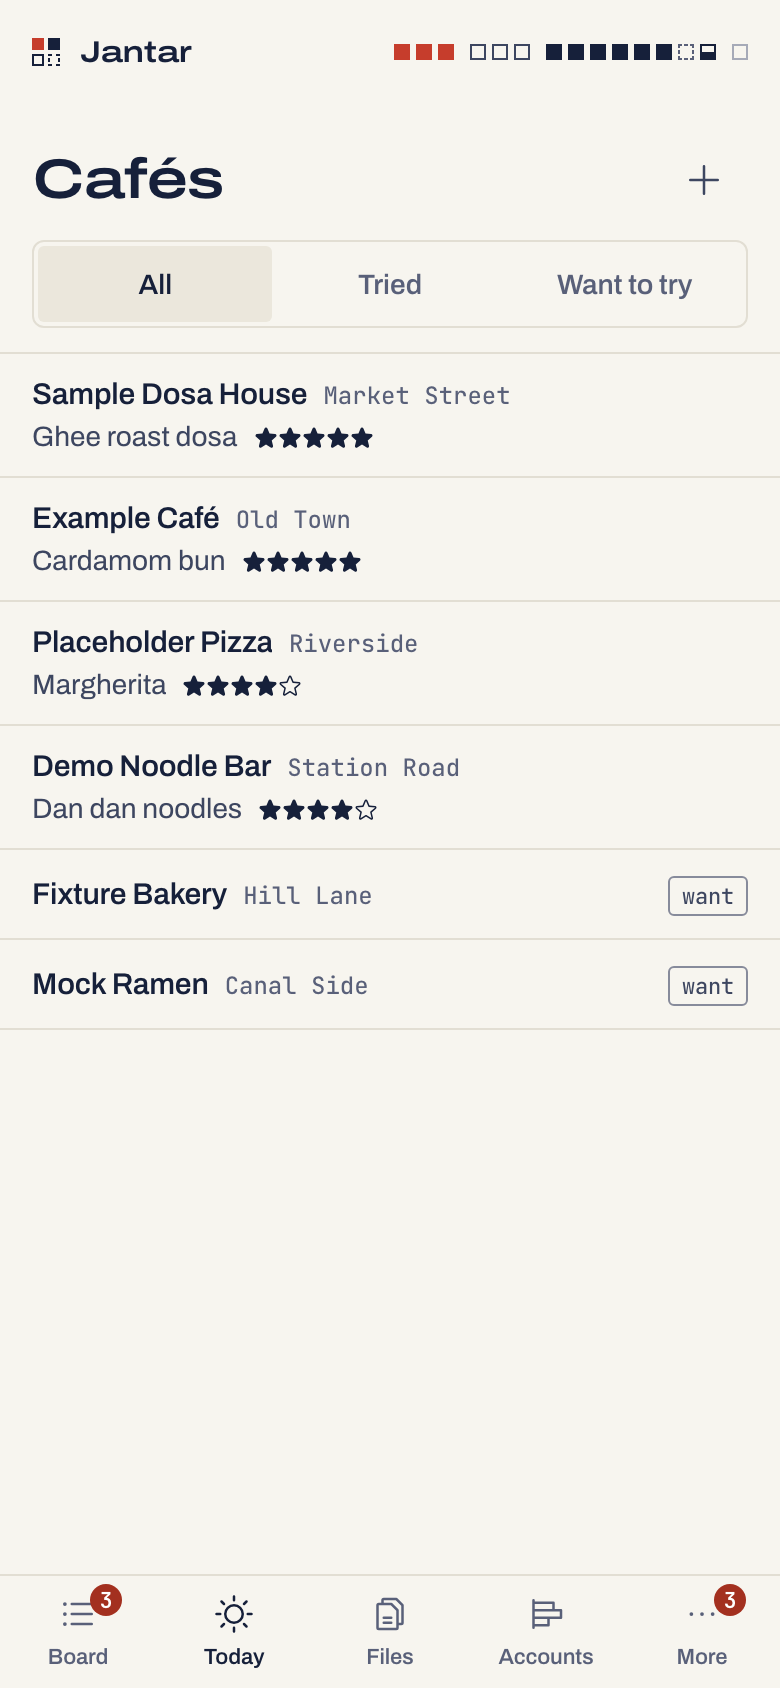
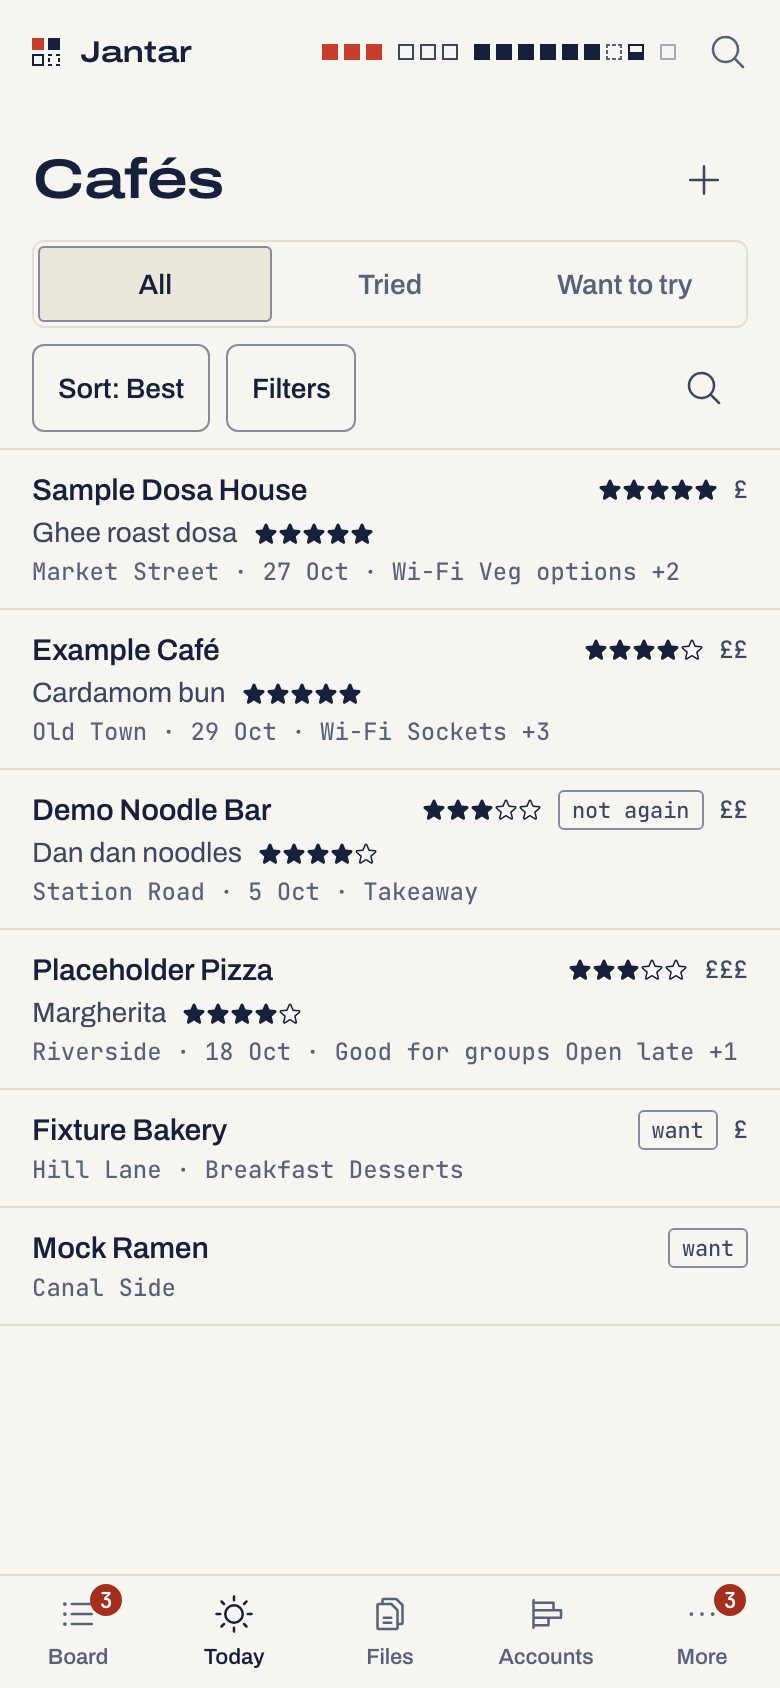
docs: cafés depth and Life's second schema change
- docs/life.md: the Cafés bullet (stars, six ratings, price, would go
  again, tags, dishes that wait to be rated, visits, sorts and filters,
  the café's screen, jantar place reads), the pictures (Cafés best rated
  first with filters; a café; the Filters sheet), the delete rule (a café
  with visits asks first), and Backup and restore with the daemon's own
  pre-upgrade copy.
- docs/upgrading.md: "0.10.0: Life's second schema change": the daemon
  keeps life-pre-0.10.0.db before migrating; going back to 0.9.0 is jantar
  life restore of it, losing the Life changes made since.
- SECURITY.md (Upgrading): the copy, 0600 in 0700 from the read-only check
  connection, and no migration without it.
- docs/LAYOUT.md: v0.10.0's files, sizes and tests.
- Screenshots: places re-shot; place (the first café's screen) and
  place-filters (the Filters sheet) are new, phone, light and dark, from
  the web fixture, whose list now sorts by the score (Demo Noodle Bar has
  its own three stars). Every picture looked at.
- perf-memory seeds five visits on each of its ten cafés (236 writes, under
  the 240 a minute); the gate holds at +24.0 MB.

diff --git a/test/integration/web-fixture-v04.ts b/test/integration/web-fixture-v04.ts
@@ -457,7 +457,7 @@ export function webFixtureV04(opts: WebFixtureV04Options = {}): WebFixtureV04 {
       { name: 'Margherita', rating: 4, price: 1100 },
       { name: 'Garlic knots', rating: 3 },
     ], { stars: 3, price: 3, again: 'maybe', tags: ['groups', 'late', 'outdoor'], visits: summary(703) }),
-    place(704, 'Demo Noodle Bar', 'Station Road', true, [{ name: 'Dan dan noodles', rating: 4, price: 950 }], { price: 2, again: 'no', tags: ['takeaway'], visits: summary(704) }),
+    place(704, 'Demo Noodle Bar', 'Station Road', true, [{ name: 'Dan dan noodles', rating: 4, price: 950 }], { stars: 3, price: 2, again: 'no', tags: ['takeaway'], visits: summary(704) }),
     place(705, 'Fixture Bakery', 'Hill Lane', false, [{ name: 'Cinnamon roll' }], { notes: 'Sourdough on Saturdays.', price: 1, tags: ['breakfast', 'desserts'] }),
     place(706, 'Mock Ramen', 'Canal Side', false, []),
   ];
@@ -719,7 +719,7 @@ export function webFixtureV04(opts: WebFixtureV04Options = {}): WebFixtureV04 {
     });
   };
 
-  /** v0.10: the list as the daemon filters it (the fixture's order is already best first; other sorts keep it). */
+  /** v0.10: the list as the daemon filters it, best first (the score, then the name); the other sorts are not kept here. */
   const placesList = (q: URLSearchParams) => {
     const f = q.get('filter');
     const segment = places.filter((p) => (f === 'tried' ? p.tried : f === 'want' ? !p.tried : true));
@@ -738,8 +738,9 @@ export function webFixtureV04(opts: WebFixtureV04Options = {}): WebFixtureV04 {
         (!text || [p.name, p.area ?? '', ...p.dishes.map((d) => d.name), ...p.tags, ...p.tags.map(placeTagLabel), p.notes ?? ''].join('\n').toLowerCase().includes(text)),
     );
     const count = <K extends string>(keys: K[]) => [...keys.reduce((m, k) => m.set(k, (m.get(k) ?? 0) + 1), new Map<K, number>())].sort((a, b) => b[1] - a[1]);
+    const score = (p: Place) => placeScore(p) ?? -1;
     return {
-      places: shown,
+      places: [...shown].sort((a, b) => score(b) - score(a) || a.name.localeCompare(b.name, 'en', { sensitivity: 'base' })),
       tags: count(segment.flatMap((p) => p.tags)).map(([tag, n]) => ({ tag, n })),
       areas: count(segment.flatMap((p) => (p.area ? [p.area] : []))).map(([area, n]) => ({ area, n })),
     };

diff --git a/docs/life.md b/docs/life.md
@@ -43,8 +43,16 @@ jantar life status
   and your weight with its change over 7 and 30 days. The calorie target
   (1,500 kcal until you change it) and the goal weight are set on the
   phone.
-- **Cafés** (`places`): your places and their best dishes, rated, tried or
-  want to try.
+- **Cafés** (`places`): your places, tried or want to try. A café has its
+  own stars, six optional ratings (food, coffee and drinks, vibe, service,
+  value, work), a price level (shown in your currency's symbol), would go
+  again, and tags: Wi-Fi, sockets, quiet and the rest, or your own. Its
+  dishes have stars (or none yet, to try), a price and would order again;
+  its visits keep the day, what you spent and had, and how it was. Sort by
+  best, recent, most visited, name, price or work; filter by tags, price,
+  stars, would go again and area, or search. Each café has its own screen,
+  and `jantar place list` and `show` read them at the Mac (never change
+  them).
 - **Finance** (`finance`): expenses and income by category, monthly
   budgets, and bills that remind you.
 - **Posts** (`posts`): what you plan to post on social media (a Reddit
@@ -60,8 +68,12 @@ jantar life status
 </p>
 <p align="center">
   <picture><source media="(prefers-color-scheme: dark)" srcset="img/food-phone-dark.png"><img src="img/food-phone.png" width="240" alt="Food: 1,240 of 1,500 kcal and the weight line."></picture>
-  <picture><source media="(prefers-color-scheme: dark)" srcset="img/places-phone-dark.png"><img src="img/places-phone.png" width="240" alt="Cafés, best rated first."></picture>
+  <picture><source media="(prefers-color-scheme: dark)" srcset="img/places-phone-dark.png"><img src="img/places-phone.png" width="240" alt="Cafés, best rated first, with filters."></picture>
   <picture><source media="(prefers-color-scheme: dark)" srcset="img/money-phone-dark.png"><img src="img/money-phone.png" width="240" alt="Finance: spending by category against budgets, and bills."></picture>
+</p>
+<p align="center">
+  <picture><source media="(prefers-color-scheme: dark)" srcset="img/place-phone-dark.png"><img src="img/place-phone.png" width="240" alt="A café: its stars, price, ratings, tags, dishes and visits."></picture>
+  <picture><source media="(prefers-color-scheme: dark)" srcset="img/place-filters-phone-dark.png"><img src="img/place-filters-phone.png" width="240" alt="Cafés' filters: tags, price, stars, would go again and area."></picture>
 </p>
 
 ## How it behaves
@@ -70,10 +82,11 @@ jantar life status
   every phone: `1,240` is 1240 and `1,240.50` is 1240.50. The currency is
   a label only; there is one currency.
 - **Undo instead of a confirm.** Deleting a todo, a meal, a weight, a saved
-  food, a café, a money entry or a post happens at once, with Undo for five
-  seconds. A medicine, a project or a bill still asks first, because
-  deleting one also drops its dose history, its todos' link to it or its
-  reminders.
+  food, a café with no visits, a café's visit or dish, a money entry or a
+  post happens at once, with Undo for five seconds. A medicine, a project, a
+  bill or a café with visits still asks first ("Delete Example Café and its
+  3 visits?"), because deleting one also drops its dose history, its todos'
+  link to it, its reminders or its visits.
 - **Pings need the Mac awake.** Medicine, reminder and post pings come from
   the daemon, so a sleeping Mac sends none. Keep your phone's own alarm for a
   dose you must not miss. Muting pushes under Alerts holds a todo's ping,
@@ -178,7 +191,7 @@ jantar life off finance                  # its data stays in life.db
 jantar life set timezone Europe/Berlin   # days and ping times (default, or none: the Mac's zone)
 jantar life set currency EUR             # a label for amounts (none: plain numbers)
 jantar life set lock-screen-details on   # names on the lock screen (default off: "Medicine due", "Bill due", "Post due")
-jantar life status                       # modules, zone, currency, who gets medicine pings, backups
+jantar life status                       # modules, zone, currency, who gets medicine pings, backups, life.db's schema
 ```
 
 ## Backup and restore
@@ -195,6 +208,13 @@ jantar life restore life-2026-10-29.db   # asks first, and keeps the current lif
 A file that fails its checks is refused, never reset: Life says so on the
 phone, the rest of Jantar keeps working, and `jantar life restore` brings
 a backup back.
+
+From 0.10.0 the daemon keeps a copy for you before it changes life.db's
+layout: `life-pre-<version>.db` in the same folder, written before the
+change and kept until 30 newer backups exist (`jantar life status` names
+it). 0.10.0 adds a table for cafés' visits, and 0.9.0 can't open life.db
+after that; `jantar life restore life-pre-0.10.0.db` on 0.9.0 brings the
+old file back ([Upgrading](upgrading.md#0100-lifes-second-schema-change)).
 
 Before upgrading to 0.7.0, copy a fresh backup to `life-pre-0.7.0.db` in
 the same folder. 0.7.0 adds the posts table, and 0.6.1 can't open

diff --git a/docs/LAYOUT.md b/docs/LAYOUT.md
@@ -524,3 +524,32 @@ chunk 7.8 kB). Tests: `packages/protocol/test/v09-comment-log.test.ts`,
 `packages/daemon/test/life/posts-log.test.ts`, `packages/cli/test/post.test.ts`,
 `packages/web/test/{posts,today}.test.tsx`, and end to end in
 `test/integration/v09-comment-log.integration.test.ts`.
+
+### v0.10.0
+
+Cafés depth. The protocol (`life.ts`, `constants.ts`): a café's own
+`stars`, six optional sub-ratings (`PLACE_RATING_KEYS`), a price level,
+`again`, tags (`PLACE_TAGS`, work-friendly first, plus custom ones by the
+category rule; `placeTagKey`, `normalizePlaceTags`), dishes whose rating
+may wait, with a price, order again and notes, and visits
+(`PlaceVisitSchema`); stored shapes are tolerant `z.object`s and bodies
+strict; the list query's sorts and filters and `placeScore`; four routes
+in phase `v0.10` (`placeGet`, `placeVisitAdd`, `placeVisitUpdate`,
+`placeVisitDelete`), with `placesList` and `placeGet` read only on
+ctl.sock. The daemon: life.db's migration 3 (`place_visits`), Life's second
+schema change, and `CheckedDbOptions.preMigrateCopy` in `life/db.ts`, the
+copy `LifeService.open()` writes before migrating
+(`backups/life-pre-<version>.db`); `life/places/{module,repo}.ts` sort and
+filter in the module, read every café's visit summary in one grouped query
+and delete a café with its visits in one transaction. The CLI: `jantar
+place list|show` (`cli/src/commands/place.ts`) and the schema in `jantar
+life status`. The phone (`screens/life/places/`, the Places chunk): the
+list's Sort, Filters and search in the address, `PlaceScreen.tsx` at
+`?id=`, and the café, dish and visit sheets with `TagPicker.tsx`. The
+first load is 277.5 kB of `MAIN_JS_MAX` 280 kB (the new routes and their
+schemas sit in the protocol's shared chunk), and Places pulls in 50.5 kB
+(its own chunk 11.8 kB). Tests: `packages/protocol/test/v010-places.test.ts`,
+`packages/daemon/test/life/{places,places-depth,precopy,db}.test.ts`,
+`packages/cli/test/place.test.ts`,
+`packages/web/test/{places,place-screen,place-sheets}.test.tsx`, and end to
+end in `test/integration/{v010-places,v010-upgrade,web-v010-places}.integration.test.ts`.

diff --git a/docs/upgrading.md b/docs/upgrading.md
@@ -20,6 +20,29 @@ daemon migrates `config.json` and its databases on start (moving settings
 to version 2 in v0.4 kept the old file as `config.json.v1`). The
 [changelog](../CHANGELOG.md) says what changed in each version.
 
+### 0.10.0: Life's second schema change
+
+0.10.0 adds a table for cafés' visits to `life.db`. Nothing to copy by
+hand this time: before it moves the file to the new layout, the daemon
+writes `life-pre-0.10.0.db` in the backups folder itself (from the file as
+it was, with anything still in its write-ahead log), and moves nothing if
+that copy can't be written. A daemon older than 0.10.0 that never started
+on the file wrote nothing, so upgrading straight from 0.6.x gets the copy
+too, from before both changes.
+
+0.9.0 can't open the newer file: every Life part would say "Life data
+could not be opened". To go back, install 0.9.0 and run:
+
+```sh
+jantar life restore life-pre-0.10.0.db
+```
+
+That brings back Life as it was at the upgrade and loses every Life change
+made since (todos, doses, meals, money, posts and cafés); the newer file
+is kept beside it. `jantar life restore` with no name lists the copy, and
+`jantar life status` names it. It is kept until 30 newer backups exist,
+like every backup.
+
 ### 0.7.0: Life's first schema change
 
 0.7.0 adds a table for Posts to `life.db`, the first change to that file's

diff --git a/SECURITY.md b/SECURITY.md
@@ -1541,6 +1541,13 @@ or deleting a visit are not on the control socket (404).
 copy, so keep one named `life-pre-0.7.0.db` before upgrading
 ([Upgrading](docs/upgrading.md#070-lifes-first-schema-change)).
 
+0.10.0 adds the cafés' visits table, Life's second schema change, and
+0.9.0 refuses the newer file. The daemon writes `life-pre-0.10.0.db` itself
+before it migrates, `VACUUM INTO` a 0600 file in the 0700 backups folder
+from the read-only check connection, and refuses to migrate (Life answers
+503 with its sentence, the file untouched) when that copy fails
+([Upgrading](docs/upgrading.md#0100-lifes-second-schema-change)).
+
 ## v0.8: Intel reads links
 
 Add post saves a link (or text) on the Intel shelf and has the Mac read it
